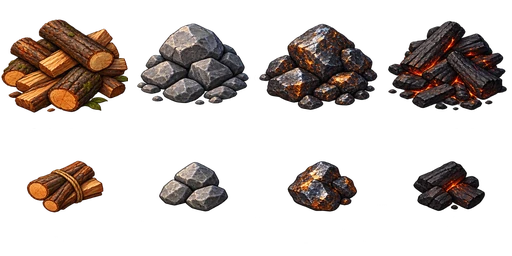
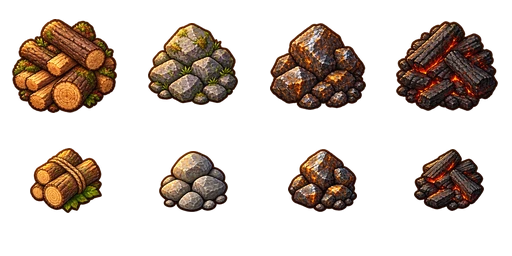
feat: new resource pile art; walk-over pickups bounce; asset/Originals is sources only
Owner request (2026-10-05): better resource sprites; pickable resources
get a little bounce so they catch the eye and read apart from the mines,
which don't move; and a check that no game sprite lives in asset/Originals.

- Art: Magnific GPT 2.5 (transparent; the mushroom props sheet as the
  style reference, the old sheet for content). Four mine heaps (wood,
  stone, iron ore, charcoal) and four pickups (a twine-tied log bundle,
  loose cobbles, ore chunks, charcoal lumps), with the style guide's warm
  outline and upper-left light. Sources are in
  asset/Originals/props/resources/. The new
  scripts/props/pack-resource-piles.py writes both sheets
  (128x128-tile_4x2-resource-piles: heaps, then pickups;
  128x128-tile_2x1-starter-materials: wood and stone pickups). It fits each
  item into its frame's old footprint, so no scene, collider, item icon or
  manifest entry changes. The small pickups may stand 12 px taller.
- Bounce: game/scripts/collectible.gd. Every walk-over pickup hops about
  6 world px with a landing squash every 1.1-1.9 s, starting at a random
  moment. It is a tween on the Visual relative to its own offset and scale
  (instance overrides survive), and waits until a dropped pile has landed.
  Resource nodes stay still. bounce = false opts a pickup out. Test:
  test_pickups_bounce_and_resource_nodes_stay_still (passes).
- Originals audit: no runtime sprite lives there. assets.json maps nothing
[…]

diff --git a/scripts/props/pack-resource-piles.py b/scripts/props/pack-resource-piles.py
@@ -1,0 +1,108 @@
+"""Pack the resource piles: the mine heaps and the walk-over pickups.
+
+Sources (Magnific GPT 2.5, transparent, 2026-10-05) in asset/Originals/props/resources/:
+- resource-heaps.png: four big heaps in a row (wood, stone, iron ore, charcoal), the art of the
+  resource nodes you chop or mine (they never move);
+- resource-pickups.png: four small walk-over pickups in a row (a twine-tied log bundle, loose
+  cobbles, ore chunks, charcoal lumps), the art of the collectible piles (they bounce in play,
+  game/scripts/collectible.gd).
+
+Writes, with the frame layouts the scenes, items.json icons and assets.json already use:
+- asset/MAPS/resources/128x128-tile_4x2-resource-piles.webp
+    frames 0-3 heaps: wood, stone (the stone node), iron ore, charcoal;
+    frames 4-7 pickups: small wood, small stone, iron ore, charcoal;
+- asset/MAPS/resources/128x128-tile_2x1-starter-materials.webp
+    frame 0 wood pickup, frame 1 stone pickup (the wood and stone world drops, drawn at 0.6).
+
+Each item is split from its row by its columns of art, trimmed, and fitted inside the footprint
+the old art had in that frame (FOOTPRINTS: never larger, aspect kept), centred on it and standing on
+its bottom, so no scene, collider or icon has to move.
+
+Usage: python scripts/props/pack-resource-piles.py
+"""
+
+from __future__ import annotations
+
+import sys
+from pathlib import Path
+
+import numpy as np
+from PIL import Image
+
+REPO = Path(__file__).resolve().parents[2]
+sys.path.insert(0, str(REPO / "scripts" / "lib"))
+from game_webp import save_game_webp  # noqa: E402
+
+SOURCES = REPO / "asset" / "Originals" / "props" / "resources"
+OUT_4X2 = REPO / "asset" / "MAPS" / "resources" / "128x128-tile_4x2-resource-piles.webp"
+OUT_2X1 = REPO / "asset" / "MAPS" / "resources" / "128x128-tile_2x1-starter-materials.webp"
+CELL = 128
+ALPHA = 16
+# Columns closer than this belong to one item (a pebble, a leaf beside it); the heaps stand only
+# 15 px apart.
+MERGE_GAP = 8
+# The old art's box in each frame, (left, top, right, bottom) inclusive, measured from the sheets
+# this replaced: the new art fits inside it, centred, on the same bottom. The small pickups'
+# boxes reach 12 px higher than the old flat piles: the new bundles are rounder, and at the old
+# height they read too small.
+FOOTPRINTS = {
+    "4x2": [(1, 19, 127, 112), (9, 23, 120, 104), (3, 23, 121, 109), (4, 21, 122, 110),
+            (27, 20, 103, 84), (31, 22, 99, 83), (31, 21, 100, 83), (29, 21, 100, 82)],
+    "2x1": [(12, 5, 120, 111), (7, 11, 116, 108)],
+}
+
+
+def split_row(path: Path, count: int = 4) -> list[Image.Image]:
+    """The `count` items of a row render, left to right, each trimmed to its art."""
+    image = Image.open(path).convert("RGBA")
+    alpha = np.asarray(image)[..., 3] > ALPHA
+    filled = alpha.any(axis=0)
+    runs: list[list[int]] = []
+    for x, on in enumerate(filled):
+        if not on:
+            continue
+        if runs and x - runs[-1][1] <= MERGE_GAP:
+            runs[-1][1] = x
+        else:
+            runs.append([x, x])
+    runs = sorted(sorted(runs, key=lambda r: r[1] - r[0], reverse=True)[:count])
+    if len(runs) != count:
+        raise SystemExit(f"{path.name}: found {len(runs)} items, expected {count}")
+    items = []
+    for x0, x1 in runs:
+        rows = np.where(alpha[:, x0:x1 + 1].any(axis=1))[0]
+        items.append(image.crop((x0, rows.min(), x1 + 1, rows.max() + 1)))
+    return items
+
+
+def fit(item: Image.Image, box: tuple[int, int, int, int]) -> Image.Image:
+    """A cell with `item` scaled inside `box` (never larger), centred on it, standing on its bottom."""
+    left, top, right, bottom = box
+    width, height = right - left + 1, bottom - top + 1
+    scale = min(width / item.width, height / item.height)
+    size = (max(1, round(item.width * scale)), max(1, round(item.height * scale)))
+    scaled = item.resize(size, Image.LANCZOS)
+    cell = Image.new("RGBA", (CELL, CELL), (0, 0, 0, 0))
+    x = round(left + (width - size[0]) / 2)
+    y = bottom + 1 - size[1]
+    cell.alpha_composite(scaled, (x, y))
+    return cell
+
+
+def main() -> None:
+    heaps = split_row(SOURCES / "resource-heaps.png")
+    pickups = split_row(SOURCES / "resource-pickups.png")
+
+    sheet = Image.new("RGBA", (CELL * 4, CELL * 2), (0, 0, 0, 0))
+    for index, item in enumerate(heaps + pickups):
+        sheet.alpha_composite(fit(item, FOOTPRINTS["4x2"][index]), ((index % 4) * CELL, (index // 4) * CELL))
+    print(f"{OUT_4X2.relative_to(REPO)}: {save_game_webp(sheet, OUT_4X2)}")
+
+    starter = Image.new("RGBA", (CELL * 2, CELL), (0, 0, 0, 0))
+    for index, item in enumerate(pickups[:2]):
+        starter.alpha_composite(fit(item, FOOTPRINTS["2x1"][index]), (index * CELL, 0))
+    print(f"{OUT_2X1.relative_to(REPO)}: {save_game_webp(starter, OUT_2X1)}")
+
+
+if __name__ == "__main__":
+    main()

diff --git a/docs/assets/README.md b/docs/assets/README.md
@@ -21,6 +21,21 @@ to the game.
 6. For animated characters, continue with the [character sprites guide](./character-sprites-guide.md).
 7. Run the checks below before placing the asset in a world.
 
+## Asset folders
+
+| Folder | Holds | Loaded by the game? |
+| --- | --- | --- |
+| `asset/Originals/` | Sources and concepts only: generated renders, Seedance clips, start and end stills, concept sheets, intermediate cut-outs, packer manifests and notes | **Never.** `assets.json` ignores `Originals/**`, the Phaser asset URLs exclude it, `pnpm godot:sync` copies only mapped files, and `pnpm assets:check` fails if a manifest path points into it |
+| `asset/MAPS/<kind>/` | World art: grounds, rocks, trees, resources, props, houses, interiors, landmarks, effects, decorations | Yes (mapped in `assets.json`, synced into `godot/asset/`) |
+| `asset/characters/`, `asset/UI/`, `asset/audio/` | Character sheets, UI art, sound and music | Yes (same) |
+| `godot/game/world/terrain_edges/art/` | The terrain edge sheets `build-terrain-edge-tiles.py` writes for Godot | Yes (Godot only; the one runtime image folder outside `asset/`) |
+
+A game-ready sheet never lives in `asset/Originals/`: pack it into the runtime folder of its kind,
+register it in `asset/assets.json` and keep its sources next to the others in `Originals/`.
+Checked on 2026-10-05: every image the game loads is in a runtime folder (the manifest maps nothing
+under `Originals/`, and the Godot scenes reference only `res://asset/{MAPS,characters,UI}/` and the
+terrain edge art), so nothing had to move.
+
 ## Pack and generator scripts
 
 The Python tools need Python 3 with Pillow (and numpy for most of them).
@@ -34,6 +49,7 @@ The Python tools need Python 3 with Pillow (and numpy for most of them).
 | `pnpm interiors:scenes` | `scripts/interiors/interior_catalog.py` + manifest | one `object.interior-*` scene per sprite (`interiors:check` detects drift) |
 | `python scripts/props/generate-wall-prop-scenes.py` | manifest sheets | `object.crystal-cluster-wall.*` / `object.tree-forest-wall.*` scenes |
 | `python scripts/props/pack-level-1-landmarks.py` | `asset/Originals/props/level-1/` | `asset/MAPS/landmarks/320x256-tile_4x1-level-1-landmarks.webp` |
+| `python scripts/props/pack-resource-piles.py` | `asset/Originals/props/resources/resource-{heaps,pickups}.png` | `asset/MAPS/resources/128x128-tile_4x2-resource-piles.webp` (mine heaps, then pickups) and `128x128-tile_2x1-starter-materials.webp` (wood and stone pickups), each item fitted into the old frame's footprint |
 | `python scripts/houses/normalize-mushroom-houses.py` | `asset/Originals/houses/` | mushroom house sheet in `asset/MAPS/Houses/` |
 | `python scripts/art/build-ambient-decoration-sheets.py` | decoration sheet + `asset/Originals/decorations/ambient/` | `asset/MAPS/decorations/128x128-tile_8x5-decorations-ambient.webp` ([ambient animation](./AMBIENT_ANIMATION.md)) |
 | `node scripts/props/wire-ambient-animations.mjs [--write]` | object scenes | ambient idle `AnimationPlayer` on animated decorations and trees |

diff --git a/docs/TOOLING.md b/docs/TOOLING.md
@@ -67,6 +67,7 @@ Sources live in `asset/Originals/` (unmapped in `assets.json`); packed runtime s
 - `python scripts/effects/pack-lash-bell.py` — packs the lash bell post (at rest and the bell swung both ways) from `asset/Originals/effects/stretch-lash/bell-post-b.png` into `asset/MAPS/objects/256x256-tile_3x1-lash-bell-post.webp`.
 - `pnpm assets:worlds` — regenerates `src/game/content/worldAssetSets.generated.json`: for every world scene, the `boot`/`interiors` images only that world (or a few worlds) uses, found by walking its instances, tiles, spawn areas, boss camps and enemy projectiles. Boot loads every other image; MapLoadScene loads the entered world's list behind a loading bar. Images the player, collectibles, weapons, effects, projectiles, UI, item icons or placeable furniture use always load at boot. `pnpm assets:check` fails when the file is stale.
 - `python scripts/assets/convert-png-to-webp.py [--write]` — converts every PNG `asset/assets.json` maps to WebP through `scripts/lib/game_webp.py` (lossy quality 90 unless a small outlined icon sheet would shift colour, then lossless; transparency always exact and verified), rewrites the manifest paths and deletes the PNGs. Report only without `--write`; afterwards run `node scripts/rehash-scene-ledger.mjs`. Every pack script above saves WebP through the same helper.
+- `python scripts/props/pack-resource-piles.py` — packs the resource piles from `asset/Originals/props/resources/` (`resource-heaps.png`: the wood, stone, iron ore and charcoal heaps the nodes use; `resource-pickups.png`: the walk-over pickups) into `asset/MAPS/resources/128x128-tile_4x2-resource-piles.webp` (heaps, then pickups) and `128x128-tile_2x1-starter-materials.webp` (wood and stone pickups), each item fitted into its frame's old footprint so no scene moves.
 - `python scripts/props/pack-level-1-landmarks.py` — packs the level-1 landmarks (Verdant Gate closed/open, village well, footbridge) from `asset/Originals/props/level-1/` into `asset/MAPS/landmarks/320x256-tile_4x1-level-1-landmarks.webp`.
 - `pnpm items:pack` (**numpy**) — slices the item icon sources in `asset/Originals/items/` into the 64x64 atlases in `asset/MAPS/items/`; `asset/Originals/items/atlas-index.json` names every frame, including ones not yet wired to an item.
 - `pnpm interiors:scenes` — regenerates one `object.interior-*` scene per interior atlas sprite from `scripts/interiors/interior_catalog.py` into `objects/interiors/<category>/`. Solid sprites get a shallow footprint collider; the catalog's `FOOTPRINT_SHARES` gives beds, tables, hearths and basins a deeper one that covers their floor depth. `python scripts/interiors/normalize-interior-sheets.py` (**numpy**) rebuilds the atlases themselves.

diff --git a/docs/godot/specs/world-objects.md b/docs/godot/specs/world-objects.md
@@ -647,6 +647,15 @@ The controller (`CollectibleController.ts:46-49`) remembers `quantity` as the in
 At world mount, authored collectibles with `remaining ≤ 0` are freed (4.7). There is no
 respawn.
 
+**Godot addition (owner decision 2026-10-05): the pickup bounce.** A collectible that is not
+already taken hops about 6 world px (`BOUNCE_HEIGHT`) up and back down, with a small squash on
+landing, then rests 1.1-1.9 s and hops again; the first hop comes 0.2-1.6 s after it appears, and a
+pile still flying in (not monitorable yet) waits. The tween moves the `Visual`'s offset and scale
+relative to their own values, on the Visual (it pauses with the tree and ends with the pile).
+Resource nodes never move, so a pile that can be picked up reads apart from the node it came from.
+`bounce = false` on the CollectibleScript turns it off. Test: `test_world_objects.gd`
+`test_pickups_bounce_and_resource_nodes_stay_still`.
+
 ### 7.2 Pickup flow (walk-over, edge-triggered)
 
 1. Contact pass after physics: the player's `PickupArea` (monitoring) gains a contact with a
@@ -839,6 +848,7 @@ A stone node (persistHealth false) has no record until it breaks; then
 | tool hit | Visual solid `#ffd277` 110 ms; hit effect (wood/stone impact, 333 ms); autumn tree leaf-fall then idle | `-N` white small at (x, y − 54) | trees: rustle + chop; stone: mine; iron: clink + mine | none |
 | tool hit on the amber ore | as above, no hit effect, plus `hit-spark` and the weapon impact effect | `-N` | clink (+ sword impact sound) | 65 ms hit-stop (crit sting if crit) |
 | node breaks | node disappears at the end of the step; piles arc out (280 ms + rebound) | depletion message yellow big at (x, y − 46) | fall / crumble / shatter (detached) | none |
+| a pile waiting | hops about 6 px every 1-2 s (Godot addition, 7.1) | | | |
 | pickup | pile disappears; `loot-sparkle` over the slime; berry: `eat` clip | `+N Item` yellow small at (x, y − 34) | per-item pickup sound (detached; berry basket silent) | none |
 | bag full | none | `Inventory full` white big (≤ 1 per s) | inventory-full (min 600 ms) | none |
 

diff --git a/AGENTS.md b/AGENTS.md
@@ -32,7 +32,7 @@ Content/art/audio generators (map builders, sheet packers, audio bake, interior 
 - `src/game/presentation/` (UI tokens), `src/game/shared/` (small cross-feature utilities)
 - `src/game/editor/scene-studio/` — Scene Studio
 - Older runtime folders still in use: `core`, `systems`, `combat`, `enemies`, `ui`, `world`, `quests`, `crafting`, `dev`. New orchestration goes in `features/`
-- `asset/assets.json` (+ `assets.schema.json`) — runtime media catalog with stable IDs; source art in `asset/Originals/` stays unmapped
+- `asset/assets.json` (+ `assets.schema.json`) — runtime media catalog with stable IDs; `asset/Originals/` holds sources and concepts only and is never loaded (`assets:check` rejects a manifest path in it; [docs/assets/README.md](docs/assets/README.md#asset-folders))
 - `scripts/` — checks, tests, generators; `tools/` is unrelated to the game build
 - The game is being migrated to Godot 4.7 (milestone G): plan and phases in [docs/GODOT_MIGRATION.md](docs/GODOT_MIGRATION.md). The Godot project is `godot/` (rules: [docs/godot/CONVENTIONS.md](docs/godot/CONVENTIONS.md)); `pnpm godot:sync` copies assets into it. Since Phase 1 (2026-10-05) every scene and the game data are Godot's (`godot/game/scenes/`, `godot/game/data/`): scene JSON, Scene Studio and `src/game/content/` no longer reach the Godot game. Use Godot 4.7.2
 

diff --git a/docs/assets/AMBIENT_ANIMATION.md b/docs/assets/AMBIENT_ANIMATION.md
@@ -13,6 +13,14 @@ This is the standard for idle ("ambient") motion on world objects.
 
 Gates, doors and the grindstone get interaction clips (open, spin), not idle loops.
 
+**Walk-over pickups bounce** (owner decision 2026-10-05): every collectible pile (wood, stone, ore,
+charcoal, berries, keys, tonics, shards...) hops about 6 px every 1-2 s, so it catches the eye and
+reads apart from the resource nodes it came from (trees, stone and iron nodes), which stay still.
+It is code, not a clip: `game/scripts/collectible.gd` tweens the `Visual`'s offset and a small
+landing squash relative to its own values (so instance overrides survive), each pile starting at a
+random moment, and only once the pile can be picked up (a dropped pile lands first). A pickup that
+should stay still sets `bounce = false` on its CollectibleScript.
+
 ## Rules
 
 - **Never in sync.** Every ambient `AnimationPlayer` autoplays with
